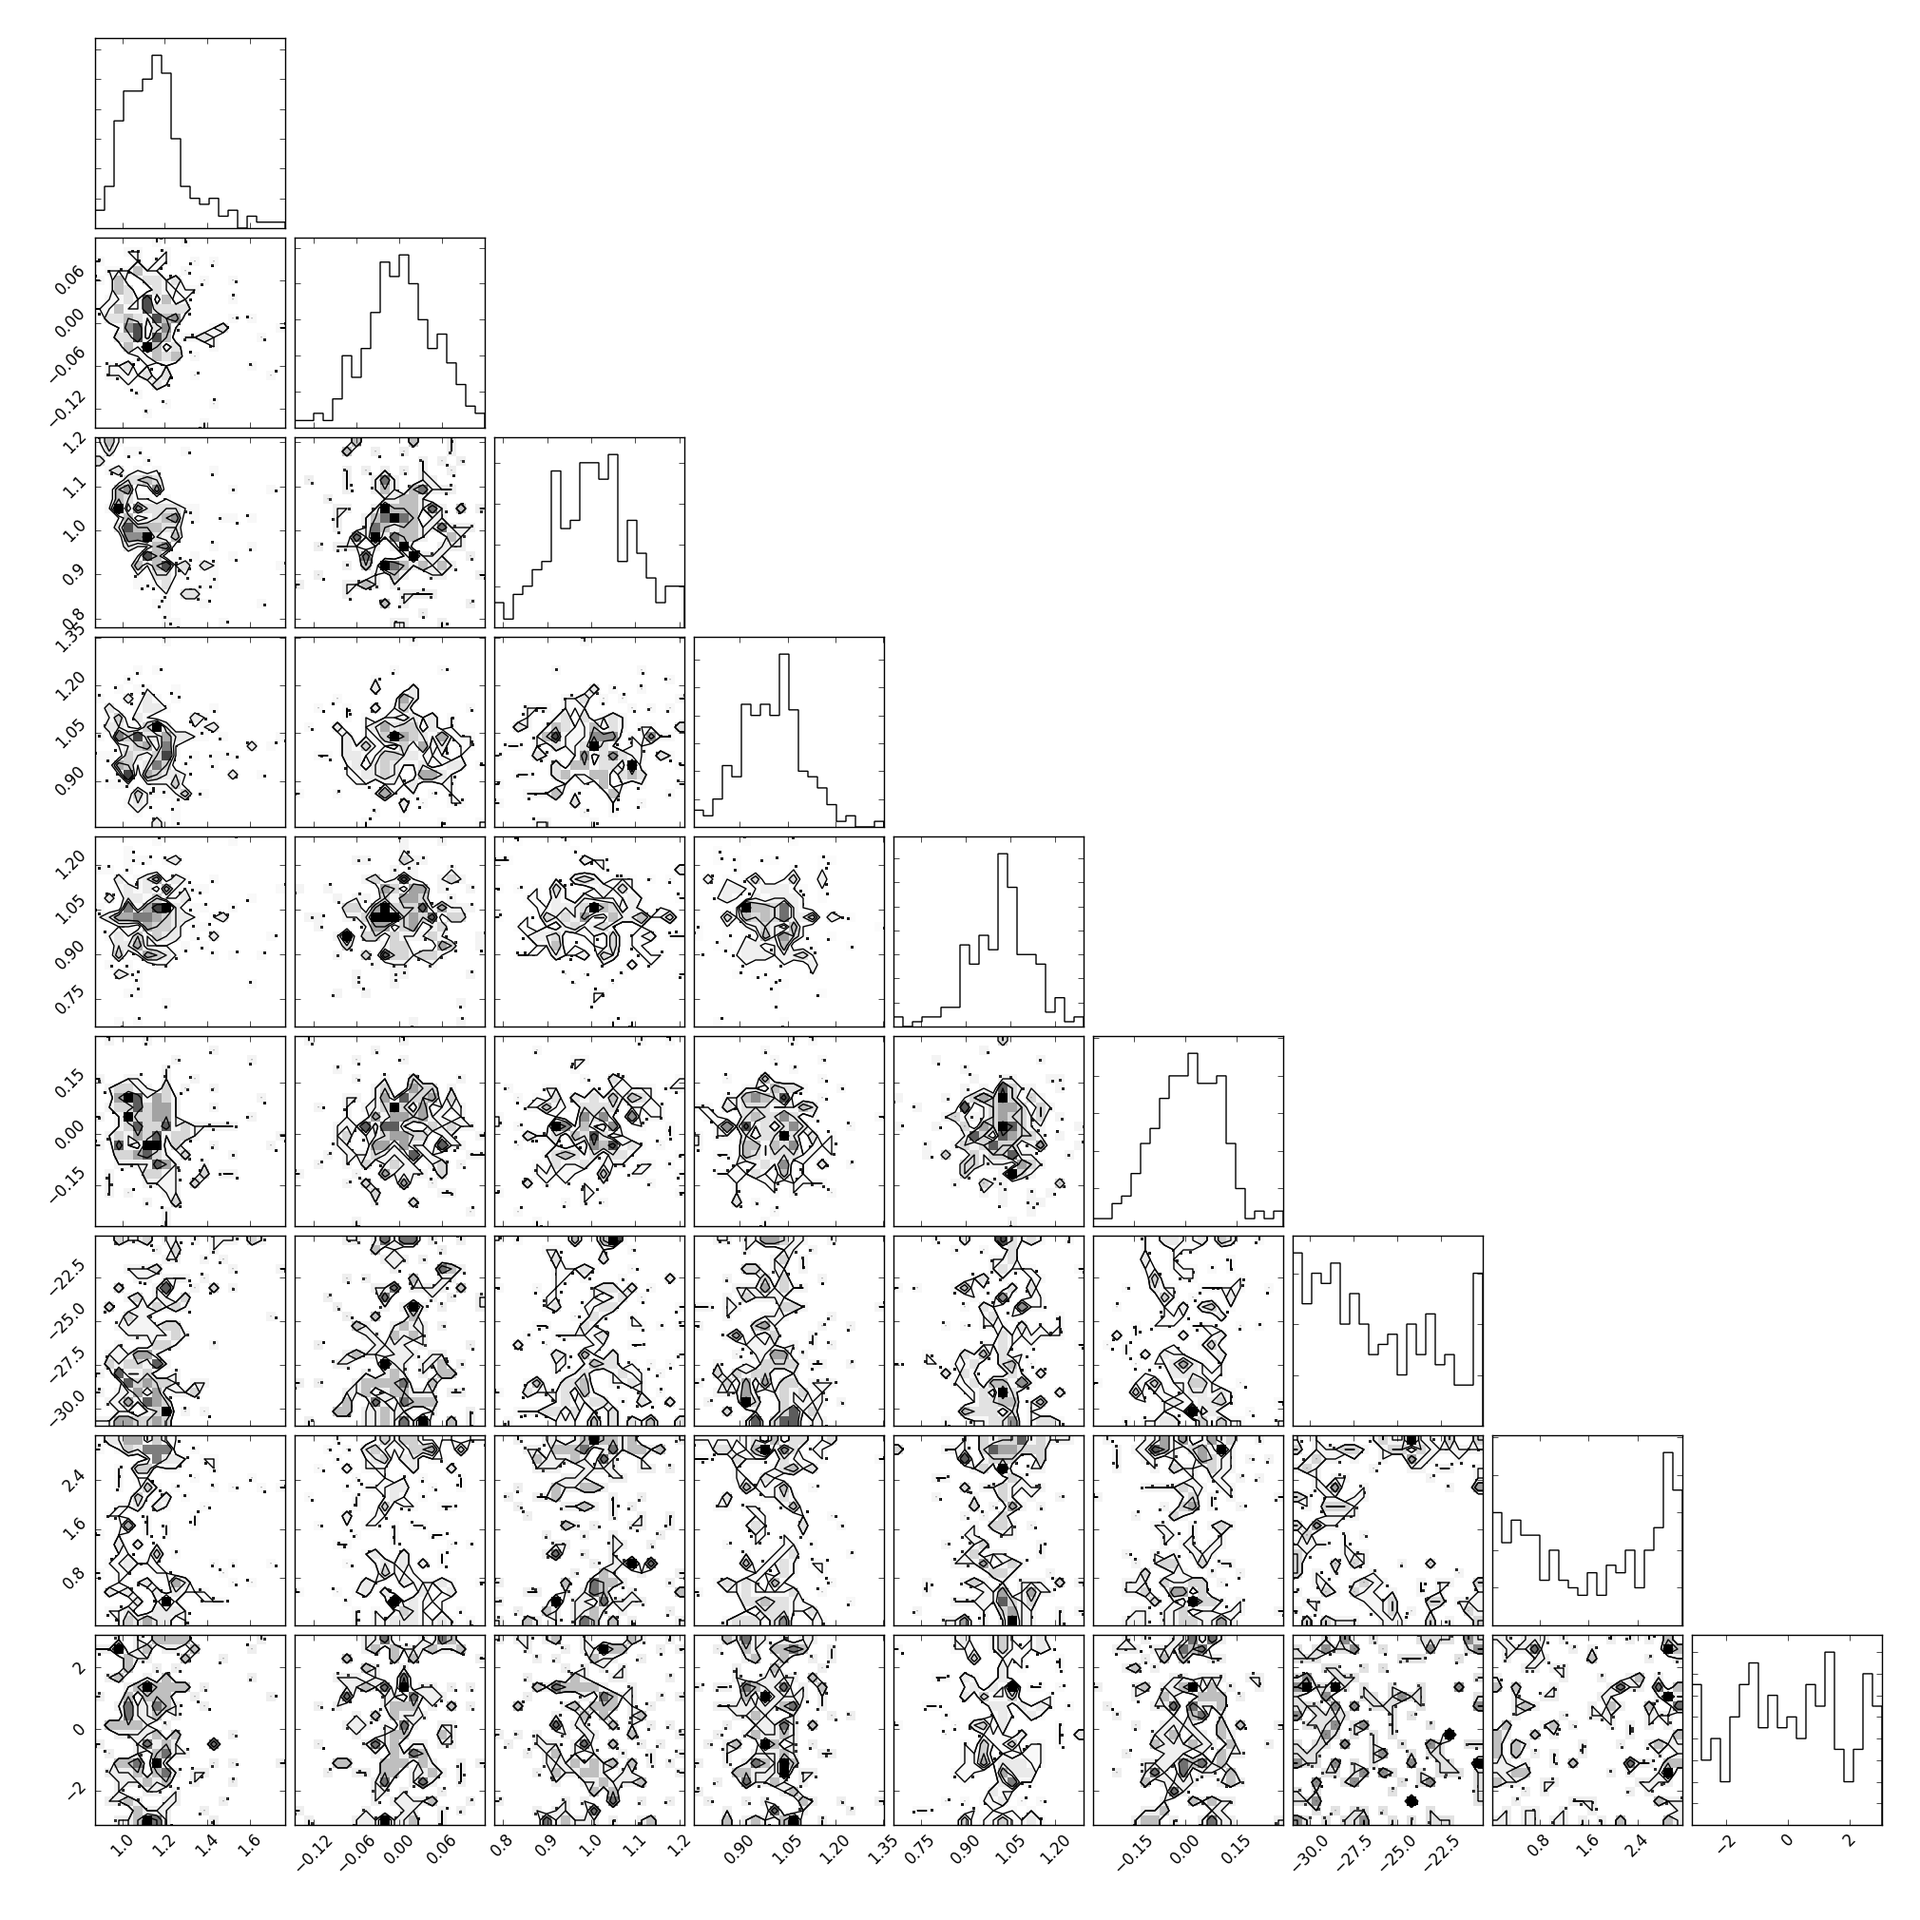
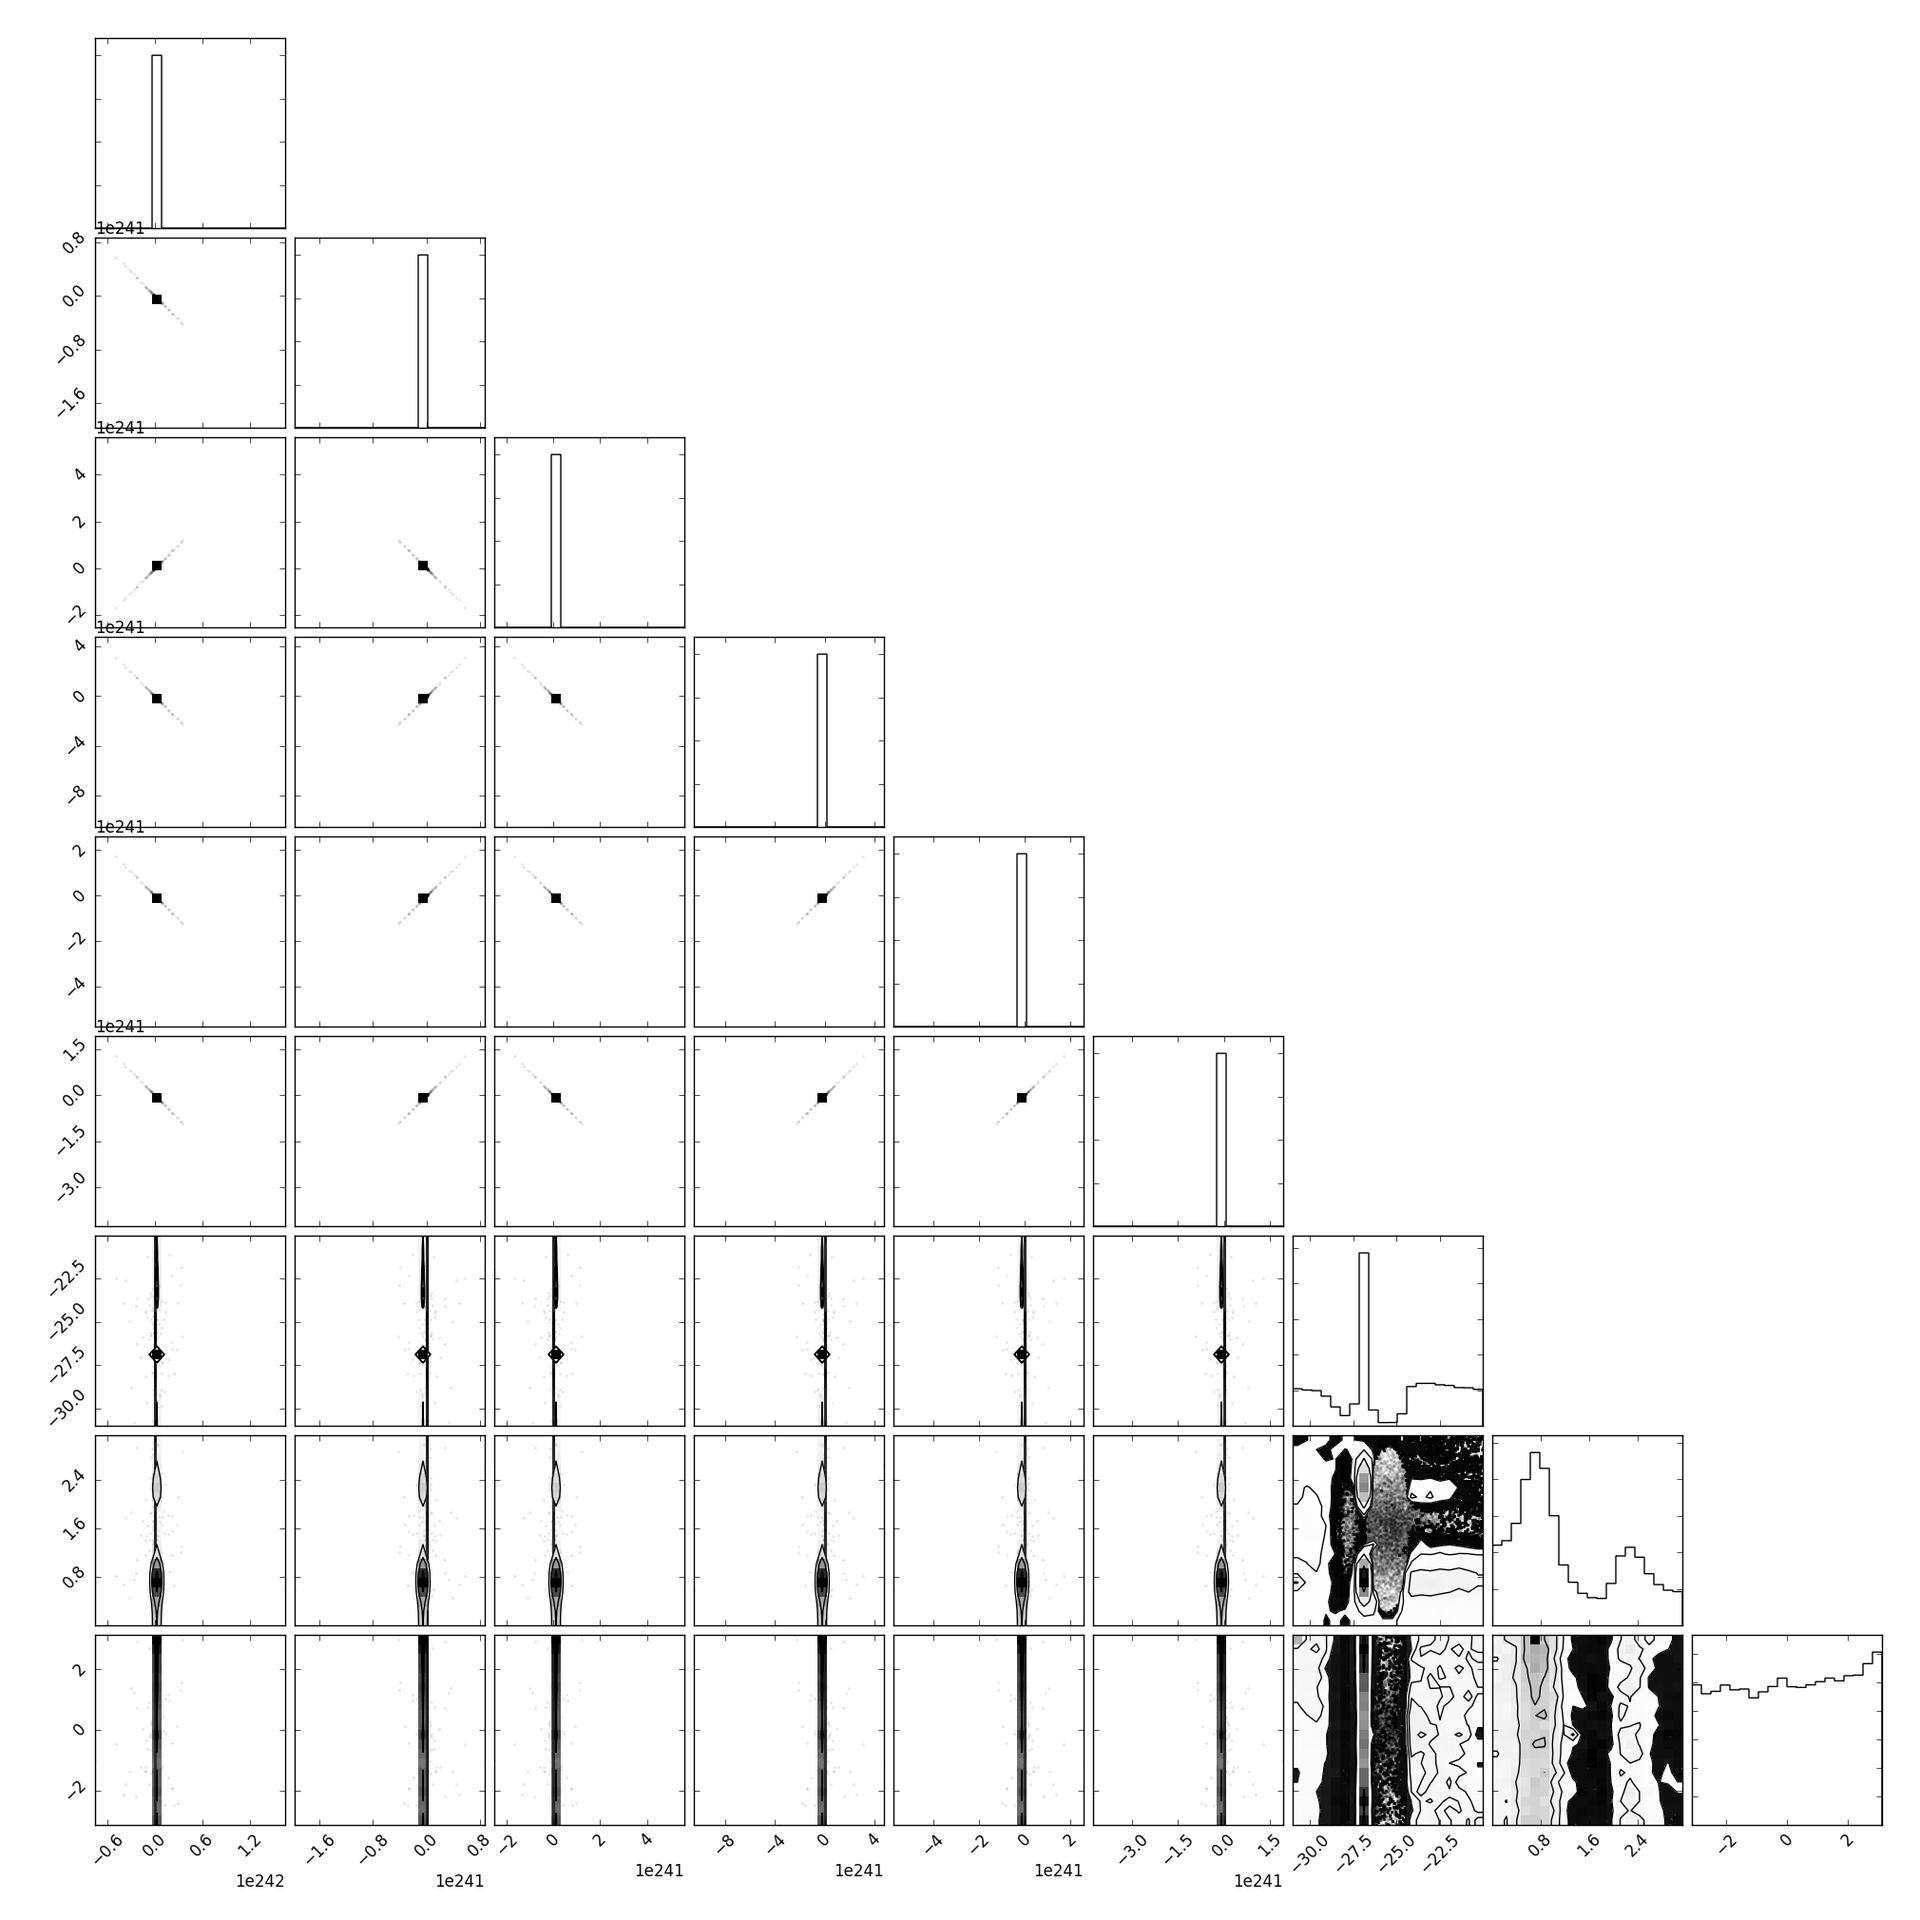
fullscan plot + start ntemps=1

diff --git a/python/run_mcmc_full.py b/python/run_mcmc_full.py
@@ -1,7 +1,6 @@
 import numpy as np
 import subprocess
 import emcee
-# TODO(shivesh): MPI business
 from emcee.utils import MPIPool
 import time
 import sys
@@ -61,7 +60,8 @@ print("Initializing walkers")
 ndim = 9
 nwalkers = 200
 # ntemps = 10
-ntemps = 5
+# ntemps = 5
+ntemps = 1
 burnin = 1000
 # burnin = 1
 betas = np.array([1e0,1e-1,1e-2,1e-3,1e-4])
@@ -76,7 +76,8 @@ p0[:,:,-3:] = np.random.uniform(low=[-31, 0, -np.pi], high=[-20, np.pi, np.pi], 
 
 # sampler = emcee.EnsembleSampler(nwalkers, ndim, lnprob)
 # sampler = emcee.PTSampler(ntemps, nwalkers, ndim, llhCPP, lnprior, betas=betas)
-sampler = emcee.PTSampler(ntemps, nwalkers, ndim, llhCPP, lnprior)
+# sampler = emcee.PTSampler(ntemps, nwalkers, ndim, llhCPP, lnprior)
+sampler = emcee.PTSampler(ntemps, nwalkers, ndim, llhCPP, lnprior, threads=8)
 print("Running burn-in")
 # pos, prob, state = sampler.run_mcmc(p0, 10000)
 for result in tqdm.tqdm(sampler.sample(p0, iterations=burnin), total=burnin):
@@ -105,7 +106,7 @@ print sampler.acceptance_fraction
 print np.unique(samples[:,0]).shape
 
 # np.savetxt("chain_new_full.dat",samples)
-# np.save("chain_new_full",samples)
+np.save("chain_full_ntemps0",samples)
 
 print 'Making plot'
 import matplotlib
@@ -113,5 +114,5 @@ matplotlib.use('Agg')
 import corner
 #fig = corner.corner(samples, labels=["$log(ReC_{\mu\tau})$", "$log(ImagC_{\mu\tau})$", "$log(C_{\mu\mu})$"])
 fig = corner.corner(samples)
-fig.savefig("/data/icecube/software/LVTools_package/LVTools/python/triangle_full_new.png")
+fig.savefig("/data/icecube/software/LVTools_package/LVTools/python/triangle_full_ntemps0.png")
 print 'DONE!'
